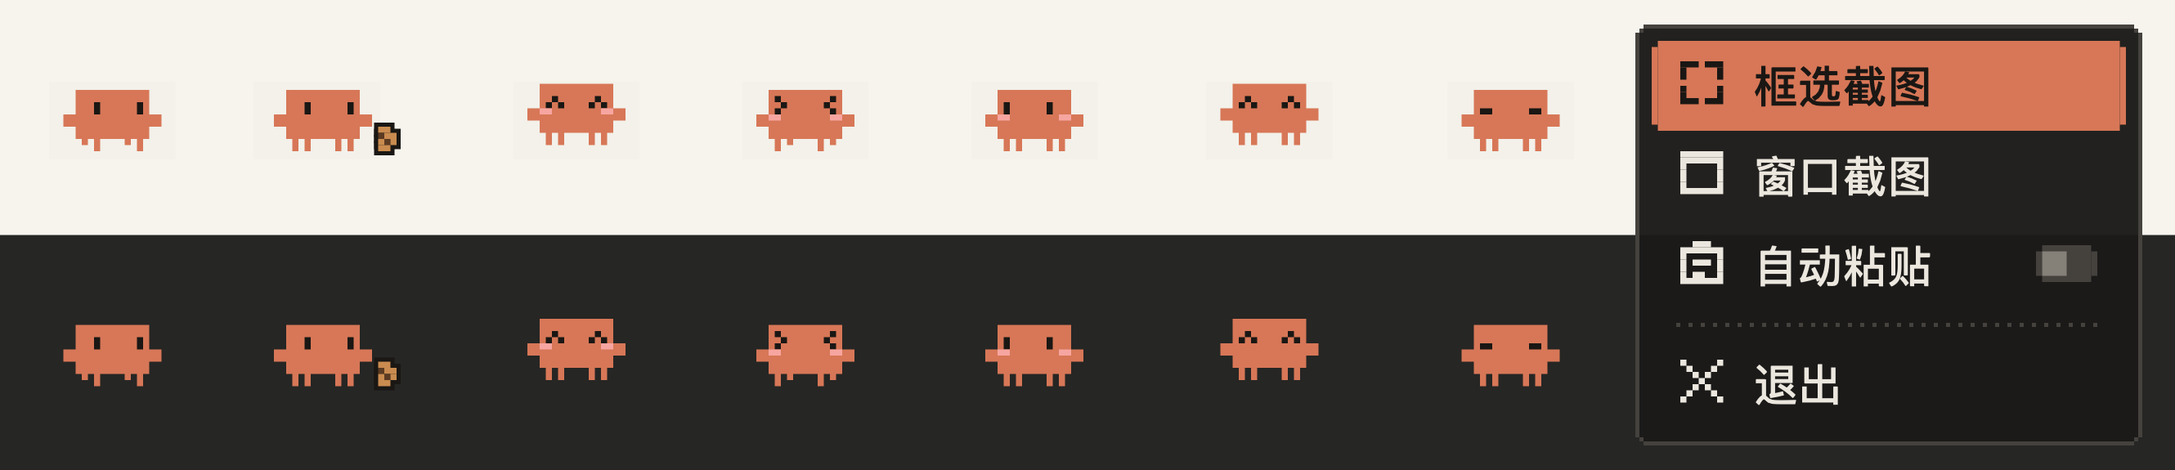
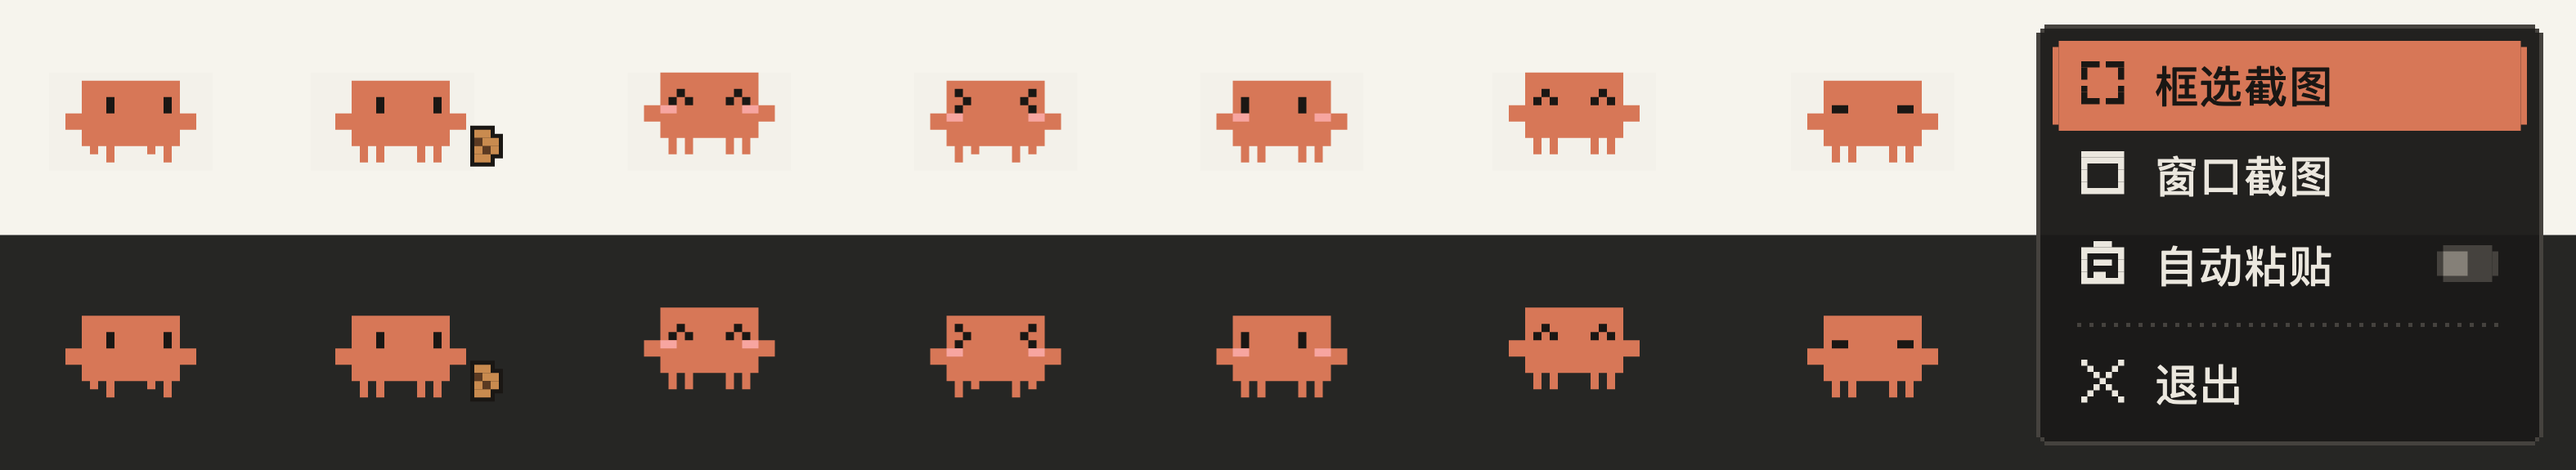
Clawd 放大到和 Claude 桌面版差不多大，加固定签名，录屏权限改为首次截图时再要
- 像素格从 1.5pt 调到 2pt（整只约 32×20pt），散步范围和跳跃高度按格数跟着缩放
- 新增 setup-signing.sh：生成本机固定签名，build.sh 有它就用，重新编译后系统授权不失效
- 启动时不再弹录屏权限；第一次截图时才询问，之后直接打开对应的系统设置页面
- 更新 README 签名说明和预览图

diff --git a/main.swift b/main.swift
@@ -33,12 +33,12 @@ func buildMenu() -> [MenuItem] {
 let claudeBundleID = "com.anthropic.claudefordesktop"
 let idleAlpha: CGFloat = 0.85
 
-let clawdUnit: CGFloat = 1.5   // 一个像素格 1.5pt（Retina 上正好 3 个物理像素）
-let walkSlack: CGFloat = 15    // 散步范围：左右总共 15pt（10 格），够看出在动，又不夸张
+let clawdUnit: CGFloat = 2     // 一个像素格 2pt（Retina 上正好 4 个物理像素），和 Claude 桌面版里的 Clawd 差不多大
+let walkSlack: CGFloat = 10 * clawdUnit  // 散步范围：左右总共 10 格，够看出在动，又不夸张
 let tickHz: Double = 8         // 动起来时的帧率；不动时不醒、不重绘
-let headroom: CGFloat = 1.5    // 头顶只留小跳一下的空间
+let headroom: CGFloat = clawdUnit  // 头顶只留小跳一下（1 格）的空间
 let stagePad: CGFloat = 2
-let artSize = NSSize(width: 18 * clawdUnit, height: 10 * clawdUnit)  // 27 × 15
+let artSize = NSSize(width: 18 * clawdUnit, height: 10 * clawdUnit)  // 36 × 20
 let stageSize = NSSize(width: artSize.width + walkSlack + stagePad * 2,
                        height: artSize.height + headroom + stagePad * 2)
 
@@ -700,6 +700,7 @@ final class Controller: NSObject, NSApplicationDelegate {
     private var hoverGen = 0, collapseGen = 0, menuGen = 0, toastGen = 0
     private var busy = false
     private var askedAccessibility = false
+    private var askedScreenRecording = false
 
     func applicationDidFinishLaunching(_ notification: Notification) {
         let me = NSRunningApplication.current
@@ -732,7 +733,7 @@ final class Controller: NSObject, NSApplicationDelegate {
         NotificationCenter.default.addObserver(self, selector: #selector(screensChanged),
                                                name: NSApplication.didChangeScreenParametersNotification, object: nil)
 
-        if !CGPreflightScreenCaptureAccess() { CGRequestScreenCaptureAccess() }
+        // 录屏权限不在启动时要，等第一次截图时再要
         toast("Clawd 就位 · 悬停展开")
     }
 
@@ -977,8 +978,22 @@ final class Controller: NSObject, NSApplicationDelegate {
 
     // MARK: 截图
 
+    /// 没有录屏权限时：第一次让系统弹窗询问，之后直接打开对应的系统设置页面
+    private func ensureScreenRecording() -> Bool {
+        if CGPreflightScreenCaptureAccess() { return true }
+        if !askedScreenRecording {
+            askedScreenRecording = true
+            _ = CGRequestScreenCaptureAccess()
+        } else if let url = URL(string: "x-apple.systempreferences:com.apple.preference.security?Privacy_ScreenCapture") {
+            NSWorkspace.shared.open(url)
+        }
+        toast("需要录屏权限 · 打开后重开 ClawdSnip", seconds: 3.5)
+        return false
+    }
+
     func capture(_ mode: CaptureMode) {
         guard !busy else { return }
+        guard ensureScreenRecording() else { return }
         collapse(animated: false)
         if hovered { setHovered(false) }
         busy = true

diff --git a/README.md b/README.md
@@ -67,7 +67,7 @@ Clawd 会出现在屏幕右侧，并提示"Clawd 就位 · 悬停展开"。
 
 不想给辅助功能权限也没关系：截图照样会复制到剪贴板，自己按 ⌘V 粘贴就行。
 
-> 应用使用本机临时签名，每次重新运行 `./build.sh` 后签名都会变，系统可能要求重新授权。如果权限列表里还留着旧的 ClawdSnip，先选中它点"−"删掉，再重新打开应用授权。
+> 建议在第一次 `./build.sh` 之前先运行一次 `./setup-signing.sh`：它会生成一个只在本机用的固定签名（放在单独的钥匙串文件里，不碰登录钥匙串），以后重新编译，系统授权也不会失效。不运行的话会用临时签名，每次重新编译后系统都可能要求重新授权。如果权限列表里还留着旧的 ClawdSnip，先选中它点"−"删掉，再重新打开应用授权。
 
 ## 使用方法
 
